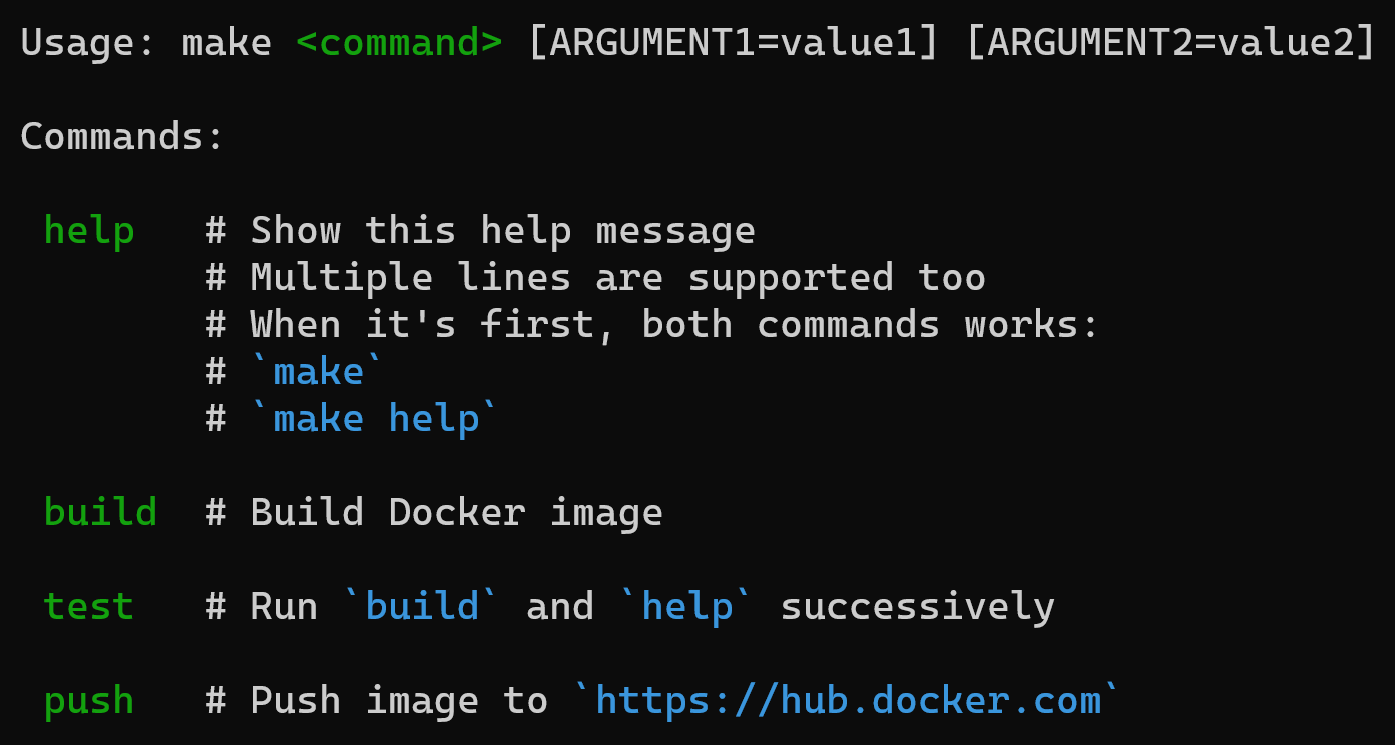
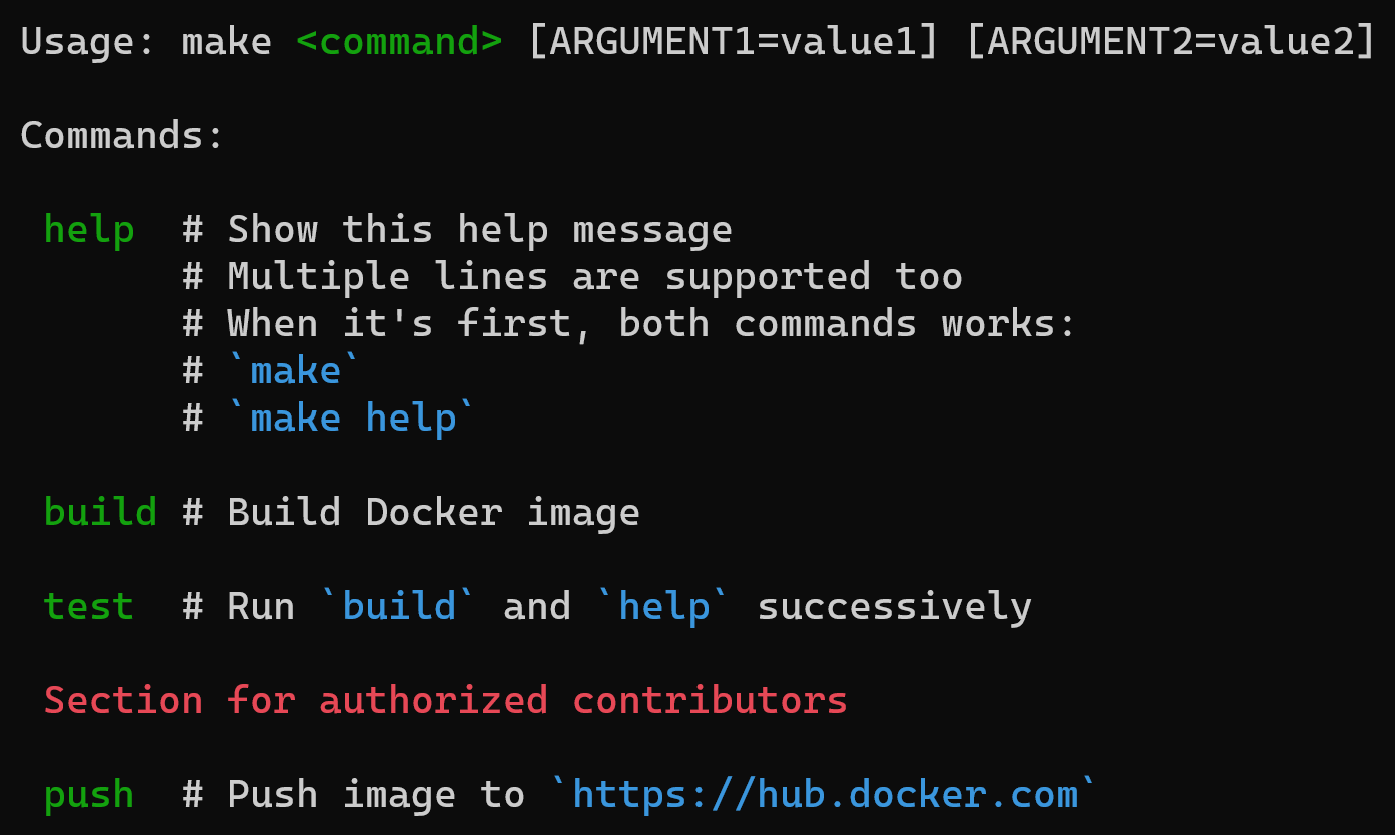
Add sections support

diff --git a/README.md b/README.md
@@ -27,6 +27,14 @@ That's all. Now you can use both `make` and `make help` commands. No additional 
 Add comments to all public tasks. You can use multi-line comments as well as code examples in `` `backticks` ``.
 No special syntax required, just use single `#` as usual.
 
+Thanks to @muuvmuuv (#1), you can also add sections to a large `Makefile` like this:
+
+```make
+##
+## Section name (one line)
+##
+```
+
 **Please see the example in [this project `Makefile`](Makefile).**
 
 ![Screenshot with this project help output](screenshot.png)
